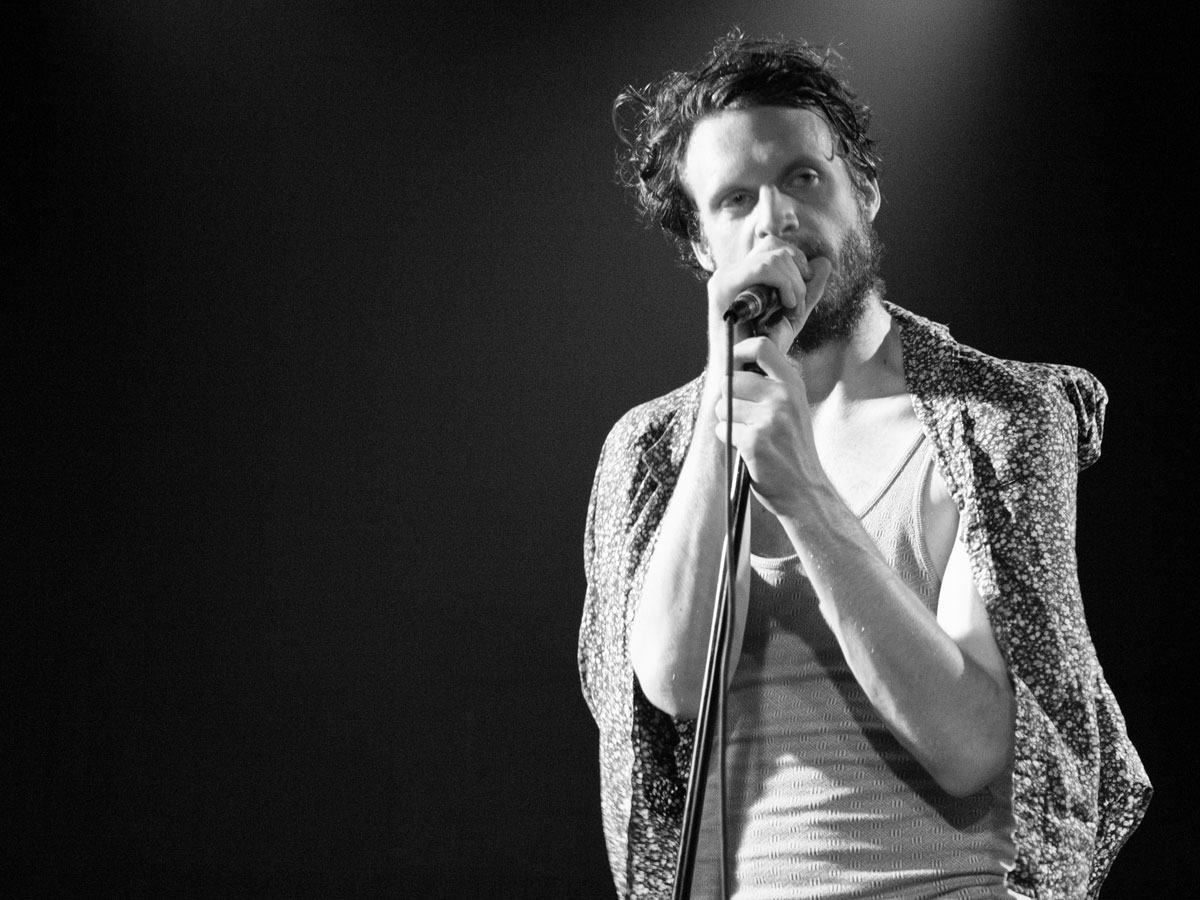
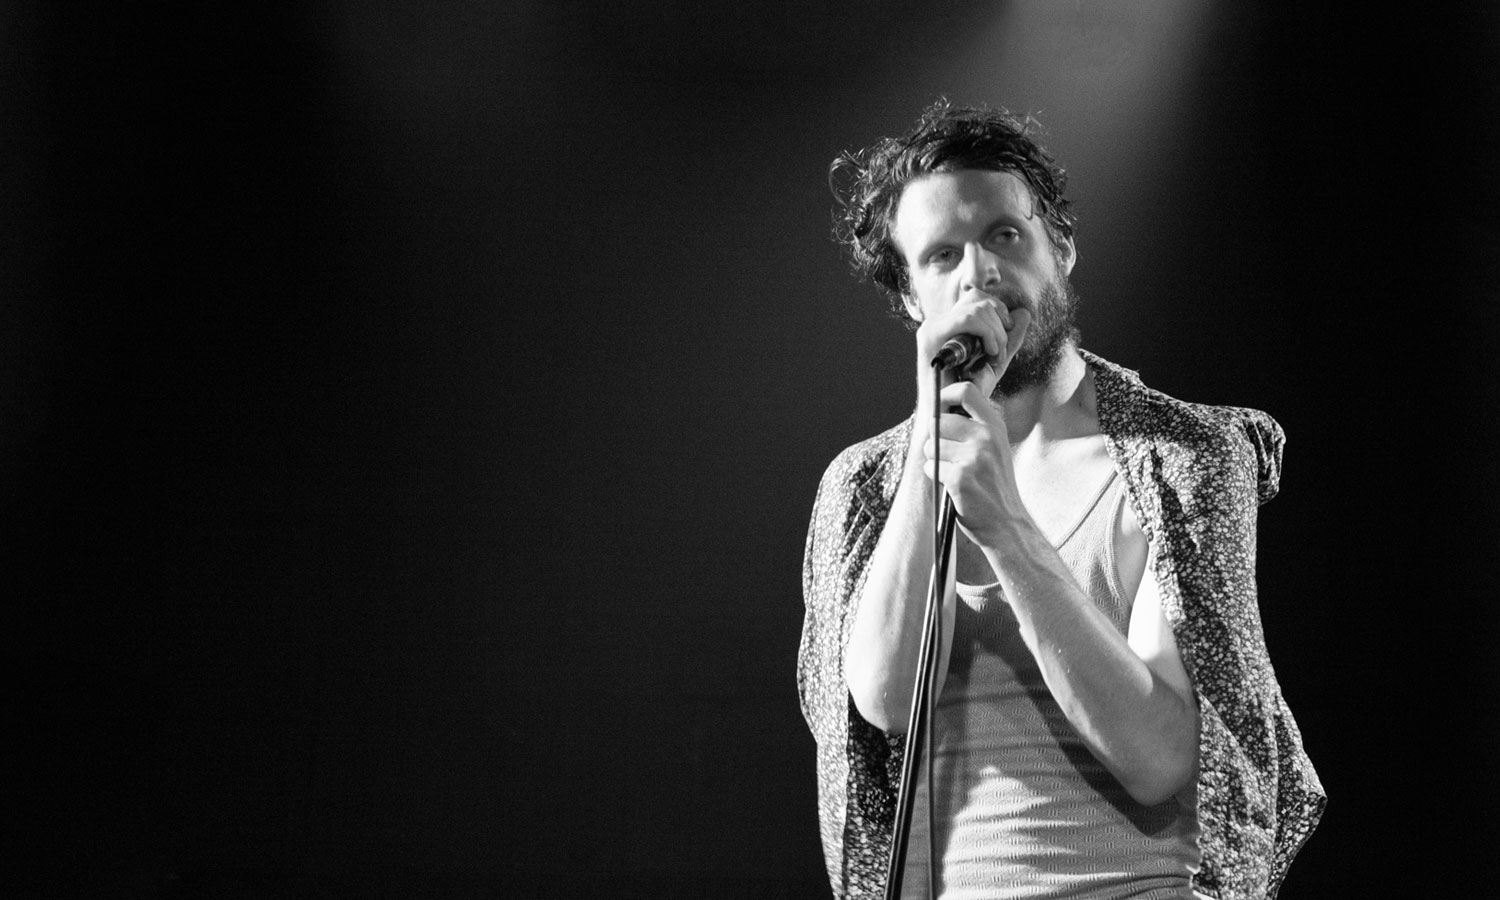
updated photo with content-fill for more compatible layout and changed header and footer colors + opacity appropriately.

Changed region(s): [[0.4625, 0.0, 0.9558, 1.0], [0.8017, 0.0, 0.8633, 0.1244], [0.1233, 0.0, 0.185, 0.0311]]

diff --git a/css/style.css b/css/style.css
@@ -9,7 +9,8 @@ html, body {
   font-size: 12px;
   height: 100%;
   font-family: 'Open Sans', serif;
-  background: url("../images/father_john_web.jpg");
+  background: url("../images/father_john_web.jpg") repeat-x;
+  background-position-x: 110px;
 }
 
 p {
@@ -72,8 +73,11 @@ li {
 /*================================================*/
 /* Header                                         */
 /*================================================*/
+header, footer {
+  background-color: rgba(131, 129, 128, .5);
+}
 header {
-  background-color: rgba(131, 129, 128, .7);
+  background-color: rgba(131, 129, 128, .5);
   height: 5em;
 }
 
@@ -117,7 +121,7 @@ div {
 
 footer {
   height:15em;
-  background-color: gray;
+  background-color: rgb(66, 65, 65);
   width:100%;
   margin:0;
 }
@@ -133,7 +137,7 @@ footer div {
     .container                                  { position: relative; width: 960px; margin: 0 auto; padding: 0; }
     .container .column,
     .container .columns                         { float: left; display: inline; margin-left: 10px; margin-right: 10px; }
-    .row                                        { margin-bottom: 20px; }
+    /*.row                                        { margin-bottom: 20px; }*/
 
     /* Nested Column Classes */
     .column.alpha, .columns.alpha               { margin-left: 0; }
